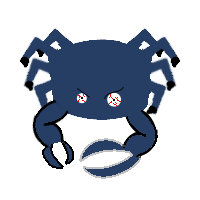
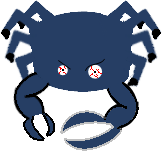
Combat text fix

diff --git a/GUI/BattleArea.java b/GUI/BattleArea.java
@@ -4,8 +4,10 @@ import java.awt.Color;
 import java.awt.Dimension;
 import java.awt.Font;
 import java.awt.FontFormatException;
+import java.awt.FontMetrics;
 import java.awt.Graphics;
 import java.awt.event.KeyEvent;
+import java.awt.image.BufferedImage;
 import java.io.BufferedInputStream;
 import java.io.FileInputStream;
 import java.io.IOException;
@@ -91,7 +93,7 @@ public class BattleArea extends JPanel	{
 		g.setColor(Color.RED);
 		g.setFont(floatingTextFont);
 		for (int i = 0; i < battleText.size(); i++)	{
-			g.drawString(battleText.get(i).text, battleText.get(i).x, battleText.get(i).y);
+			g.drawString(battleText.get(i).text, battleText.get(i).xCoordinate, battleText.get(i).yCoordinate);
 			battleText.get(i).duration--;
 			if (battleText.get(i).duration == 0)	{
 				battleText.remove(i);
@@ -119,22 +121,6 @@ public class BattleArea extends JPanel	{
 
 	public void addBattleText(int damage, Combatant target)	{
 		battleText.add(new BattleText(Integer.toString(damage), target));
-	}
-
-	private class BattleText	{
-
-		private String text;
-		private int x;
-		private int y;
-		private int duration;
-
-		public BattleText(String str, Combatant target)	{
-			text = str;
-			this.x = target.getOrigin().x + (target.getWidth() / 2) + (25 - 10 * text.length());
-			this.y = target.getOrigin().y + 10;
-			duration = 55;
-		}
-
 	}
 
 	public void setTargetAlly(boolean b)	{
@@ -176,5 +162,27 @@ public class BattleArea extends JPanel	{
 
 	public int getEnemyCursorPosition() {
 		return enemyCursorPosition;
+	}
+	
+	
+	
+	private class BattleText	{
+
+		private String text;
+		private int xCoordinate;
+		private int yCoordinate;
+		private int duration;
+
+		private static final int TEXT_SIZE = 20;
+		
+		public BattleText(String str, Combatant target)	{
+			
+			text = str;
+			this.xCoordinate = target.getOrigin().x + (target.getWidth() / 2) - ((TEXT_SIZE * text.length()) / 2);
+			this.yCoordinate = target.getOrigin().y - 10;
+			duration = 65;
+			
+		}
+
 	}
 }

diff --git a/GUI/BattleScreen.java b/GUI/BattleScreen.java
@@ -93,6 +93,7 @@ public class BattleScreen extends JPanel {
 		this.enemies = enemies;
 		
 		turnOrder.initialize();
+		turnOrder.setVisible(true);
 		activeMember = turnOrder.getActiveCombatant();		
 	}
 
@@ -102,6 +103,7 @@ public class BattleScreen extends JPanel {
 		data.getDialogueBox().restore();
 		data.getGameBoard().remove(this);
 		data.getGameBoard().add(data.getDialogueBox(), BorderLayout.SOUTH);
+		menu.modifyCursorPosition(-menu.getCursorPosition());
 		turnOrder.clear();
 	}
 
@@ -212,16 +214,20 @@ public class BattleScreen extends JPanel {
 		this.add(menu, BorderLayout.SOUTH);
 	}
 	
+	
+	
 	public void update()	{
 		battleArea.update();
 		if (state == BATTLE_STATE.ANIM_ATTACK)	{
 			if (activeMember.getCombatAction() == COMBAT_ACTION.IMPACT)	{
 				data.getCombat().attack(activeMember, activeMember.getTarget());
+				menu.update();
 			}
 			if (turnOverEh())	{
 				checkForDeaths();
 				state = BATTLE_STATE.MAIN;
 				if (enemies.allDefeated())	{
+					turnOrder.setVisible(false);
 					awardXP();
 					checkForLevelUps();
 					state = BATTLE_STATE.END;
@@ -247,6 +253,8 @@ public class BattleScreen extends JPanel {
 			}
 		}
 	}
+	
+	
 	
 	private boolean turnOverEh()	{
 		for (int i = 0; i < data.getParty().length; i++)	{

diff --git a/GUI/BattleTurnOrder.java b/GUI/BattleTurnOrder.java
@@ -25,8 +25,10 @@ public class BattleTurnOrder extends JPanel	{
 	private int baseTurnMaximum = 0;
 	private final int PREDICTIVE_SIZE = 12;
 
-	ArrayList<Combatant> combatants = new ArrayList<Combatant>();
+	private ArrayList<Combatant> combatants = new ArrayList<Combatant>();
 
+	private boolean visible = true;
+	
 	public BattleTurnOrder(GameData data, BattleScreen screen)	{
 		this.data = data;
 		battleScreen = screen;
@@ -170,14 +172,24 @@ public class BattleTurnOrder extends JPanel	{
 
 	@Override
 	protected void paintComponent(Graphics g)	{
-		for (int i = 0; i < turnIcons.size(); i++)	{
-			if (turns.get(i).getClass() == PartyMember.class)	{
-				g.drawImage(turnIcons.get(i).getImage(), 10 + (i * 50), 0, null);
-			}
-			else	{
-				g.drawImage(turnIcons.get(i).getImage(), i * 50, 0, null);
+		if (visible)	{
+			for (int i = 0; i < turnIcons.size(); i++)	{
+				if (turns.get(i).getClass() == PartyMember.class)	{
+					g.drawImage(turnIcons.get(i).getImage(), 10 + (i * 50), 0, null);
+				}
+				else	{
+					g.drawImage(turnIcons.get(i).getImage(), i * 50, 0, null);
+				}
 			}
 		}
+	}
+	
+	public boolean visibleEh()	{
+		return visible;
+	}
+	
+	public void setVisible(boolean b)	{
+		visible = b;
 	}
 
 }

diff --git a/Systems/Enemy.java b/Systems/Enemy.java
@@ -59,7 +59,7 @@ public class Enemy implements Serializable, Combatant {
 			name = "Giant Rat";
 			picture = new ImageIcon("GUI/Resources/Enemies/Crab_RazorClaw.png");
 			battlePicture = new ImageIcon("GUI/Resources/Enemies/Crab_RazorClaw-Small.png");
-			width = 150; height = 150;
+			width = 162; height = 151;
 			xpPerLevel = 40;
 			
 			minLevel = 1;       maxLevel = 3;
@@ -77,7 +77,7 @@ public class Enemy implements Serializable, Combatant {
 			name = "Razorclaw Crab";
 			picture = new ImageIcon("GUI/Resources/Enemies/Crab_RazorClaw.png");
 			battlePicture = new ImageIcon("GUI/Resources/Enemies/Crab_RazorClaw-Small.png");
-			width = 150; height = 150;
+			width = 162; height = 151;
 			xpPerLevel = 45;
 			
 			minLevel = 2;       maxLevel = 4;
@@ -95,7 +95,7 @@ public class Enemy implements Serializable, Combatant {
 			name = "Deathstalker Crow";
 			picture = new ImageIcon("GUI/Resources/Enemies/Crab_RazorClaw.png");
 			battlePicture = new ImageIcon("GUI/Resources/Enemies/Crab_RazorClaw-Small.png");
-			width = 150; height = 150;
+			width = 162; height = 151;
 			xpPerLevel = 45;
 			
 			minLevel = 3;       maxLevel = 3;

diff --git a/Systems/PartyMember.java b/Systems/PartyMember.java
@@ -202,9 +202,6 @@ public class PartyMember implements Serializable, Combatant {
 		
 		updateStats();
 		
-		currentHealth = maximumHealth;
-		
-		
 	}
 	
 	public void updateStats()	{
